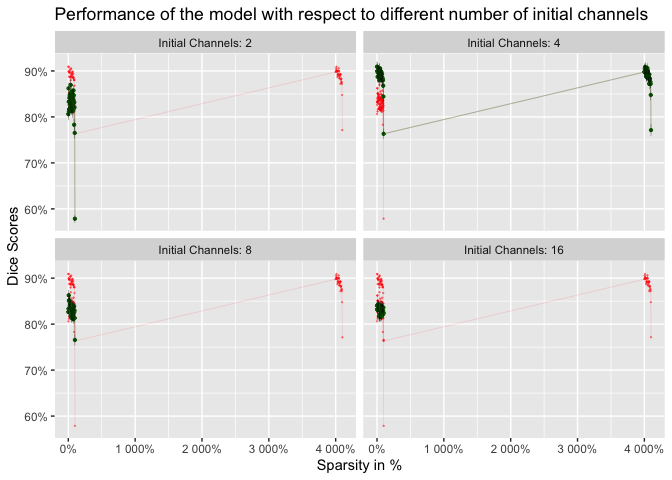
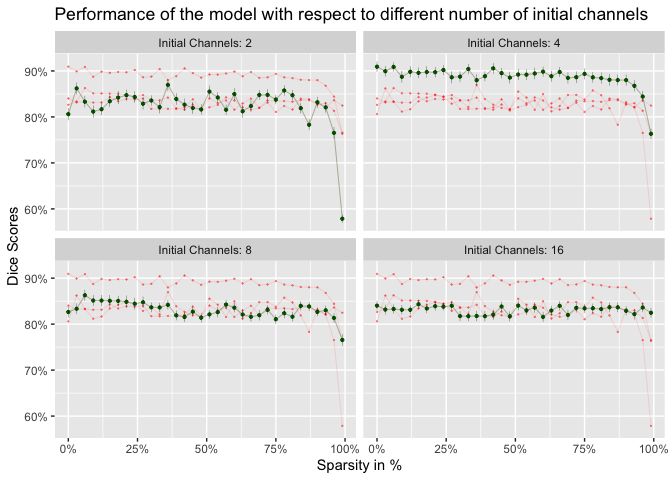
Add files via upload

diff --git a/README.MD b/README.MD
@@ -168,8 +168,8 @@ decreased.
 |    2     |   0.03   | 0.8621 | 0.01298  |
 |    2     |   0.78   | 0.8575 | 0.01142  |
 |    4     |    0     | 0.9092 | 0.01121  |
-|    4     |  40.12   | 0.9091 | 0.01017  |
 |    4     |   0.06   | 0.9088 | 0.01002  |
+|    4     |   0.42   | 0.9056 | 0.01146  |
 |    8     |   0.06   | 0.8628 |  0.0119  |
 |    8     |   0.09   | 0.8514 | 0.01178  |
 |    8     |   0.12   | 0.8513 | 0.01202  |
